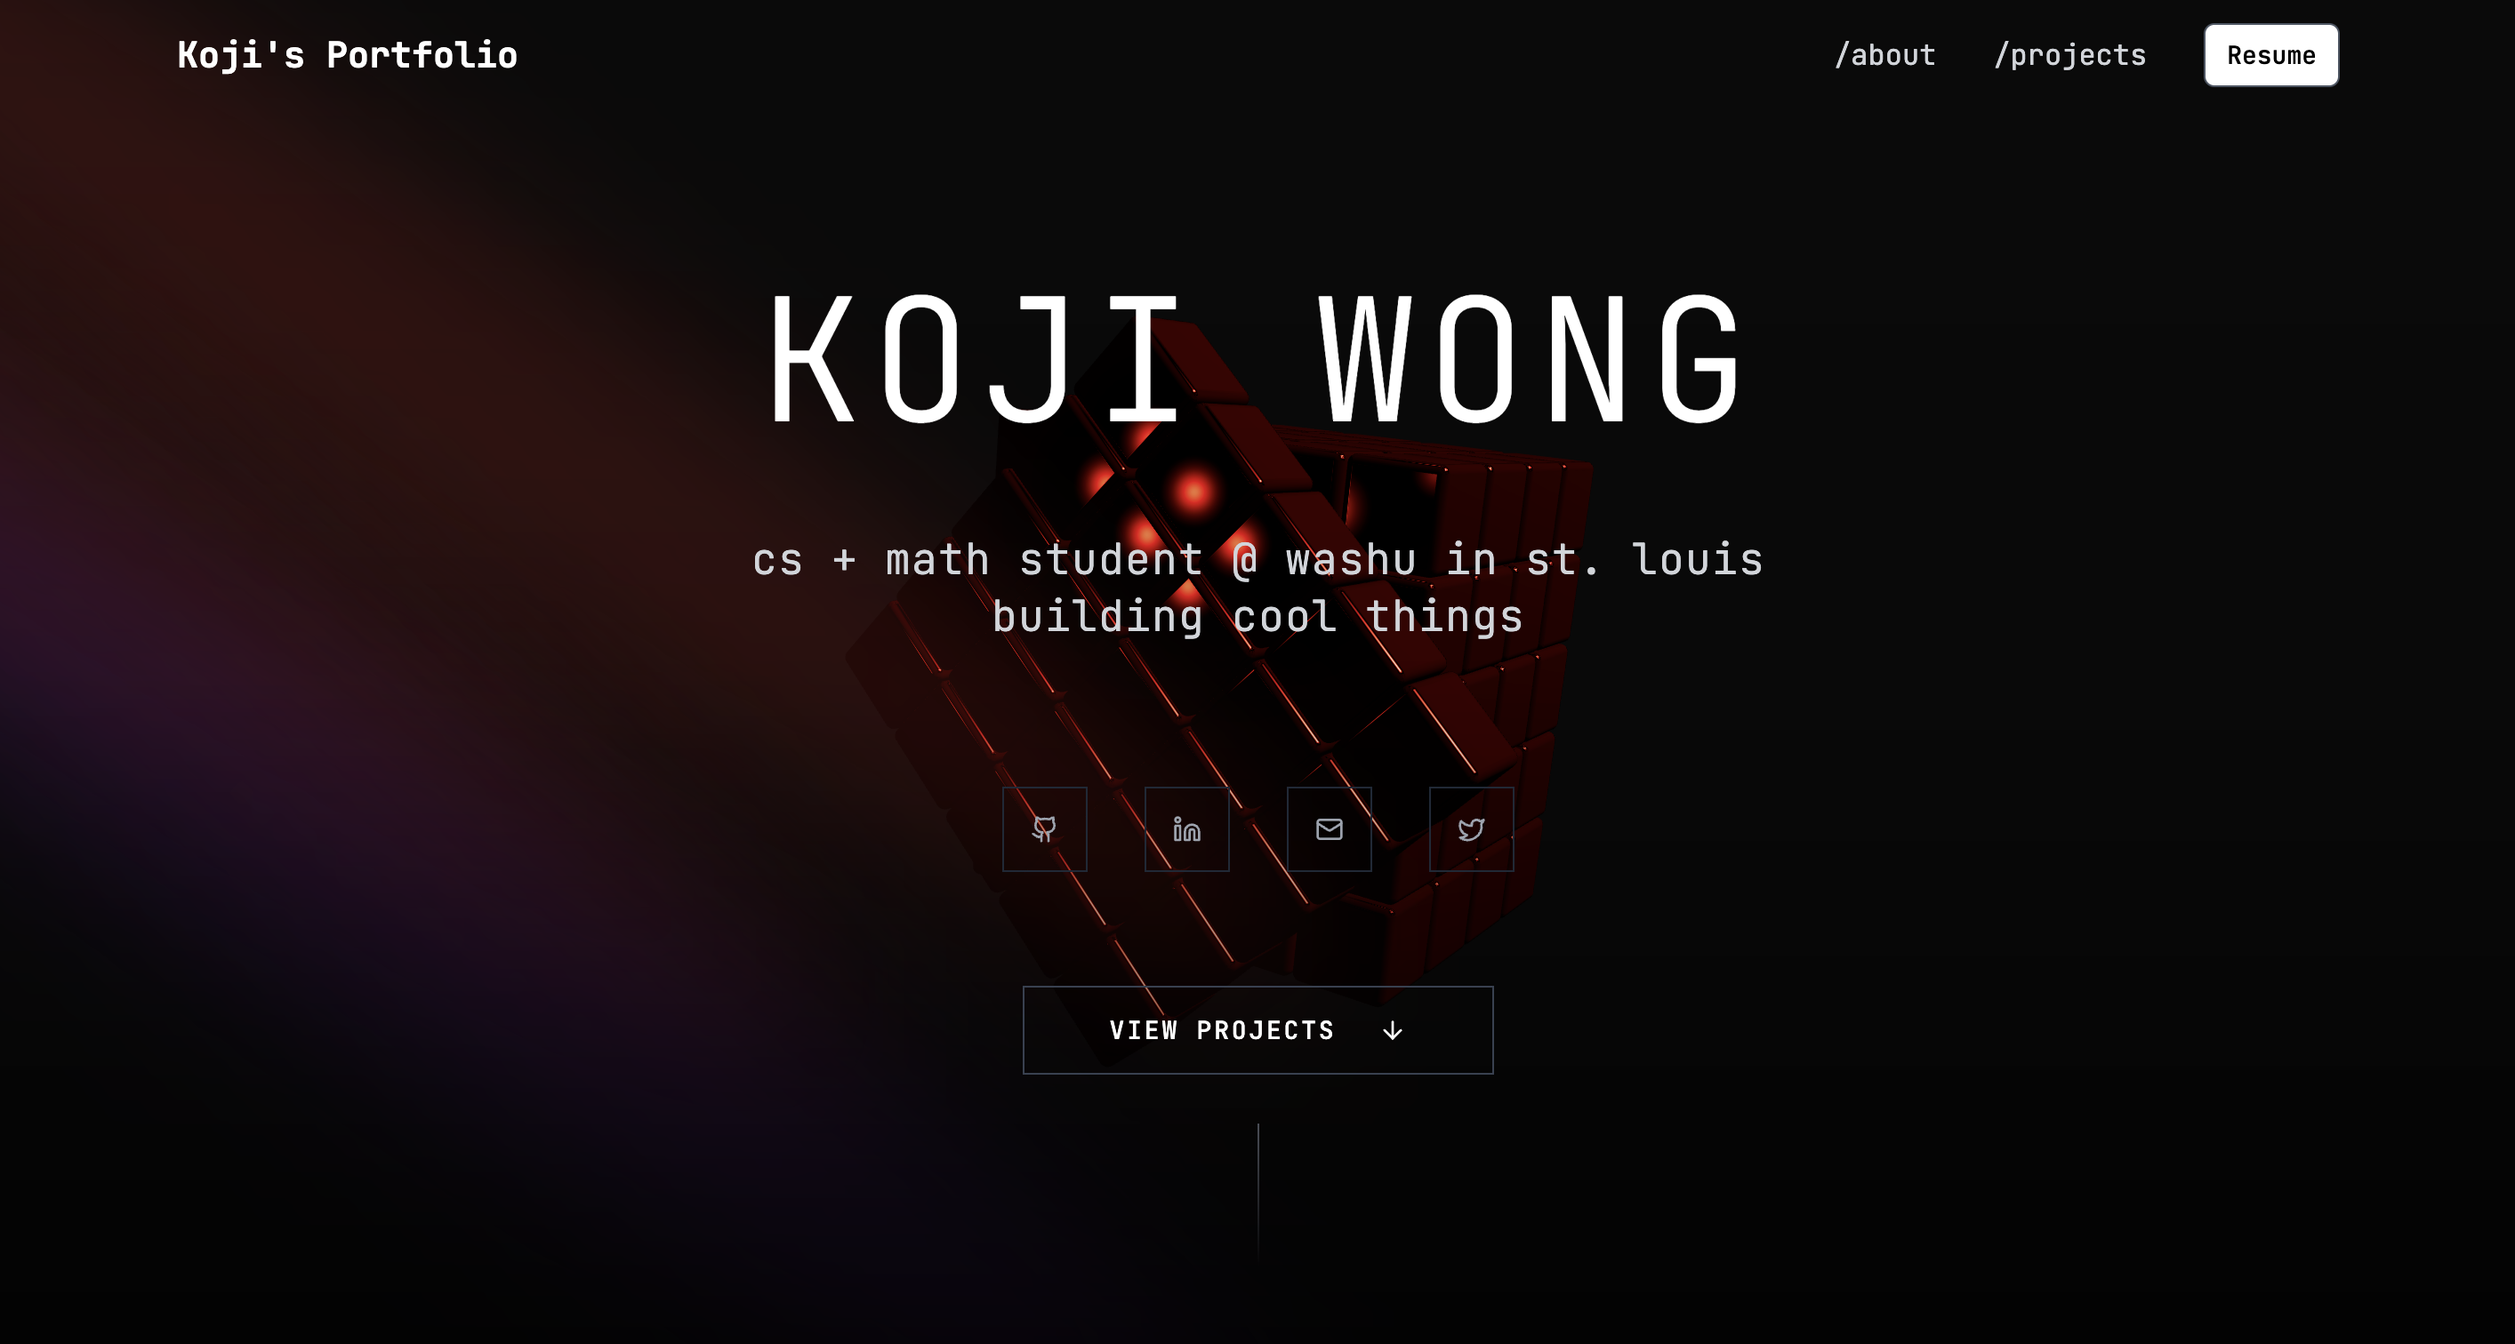
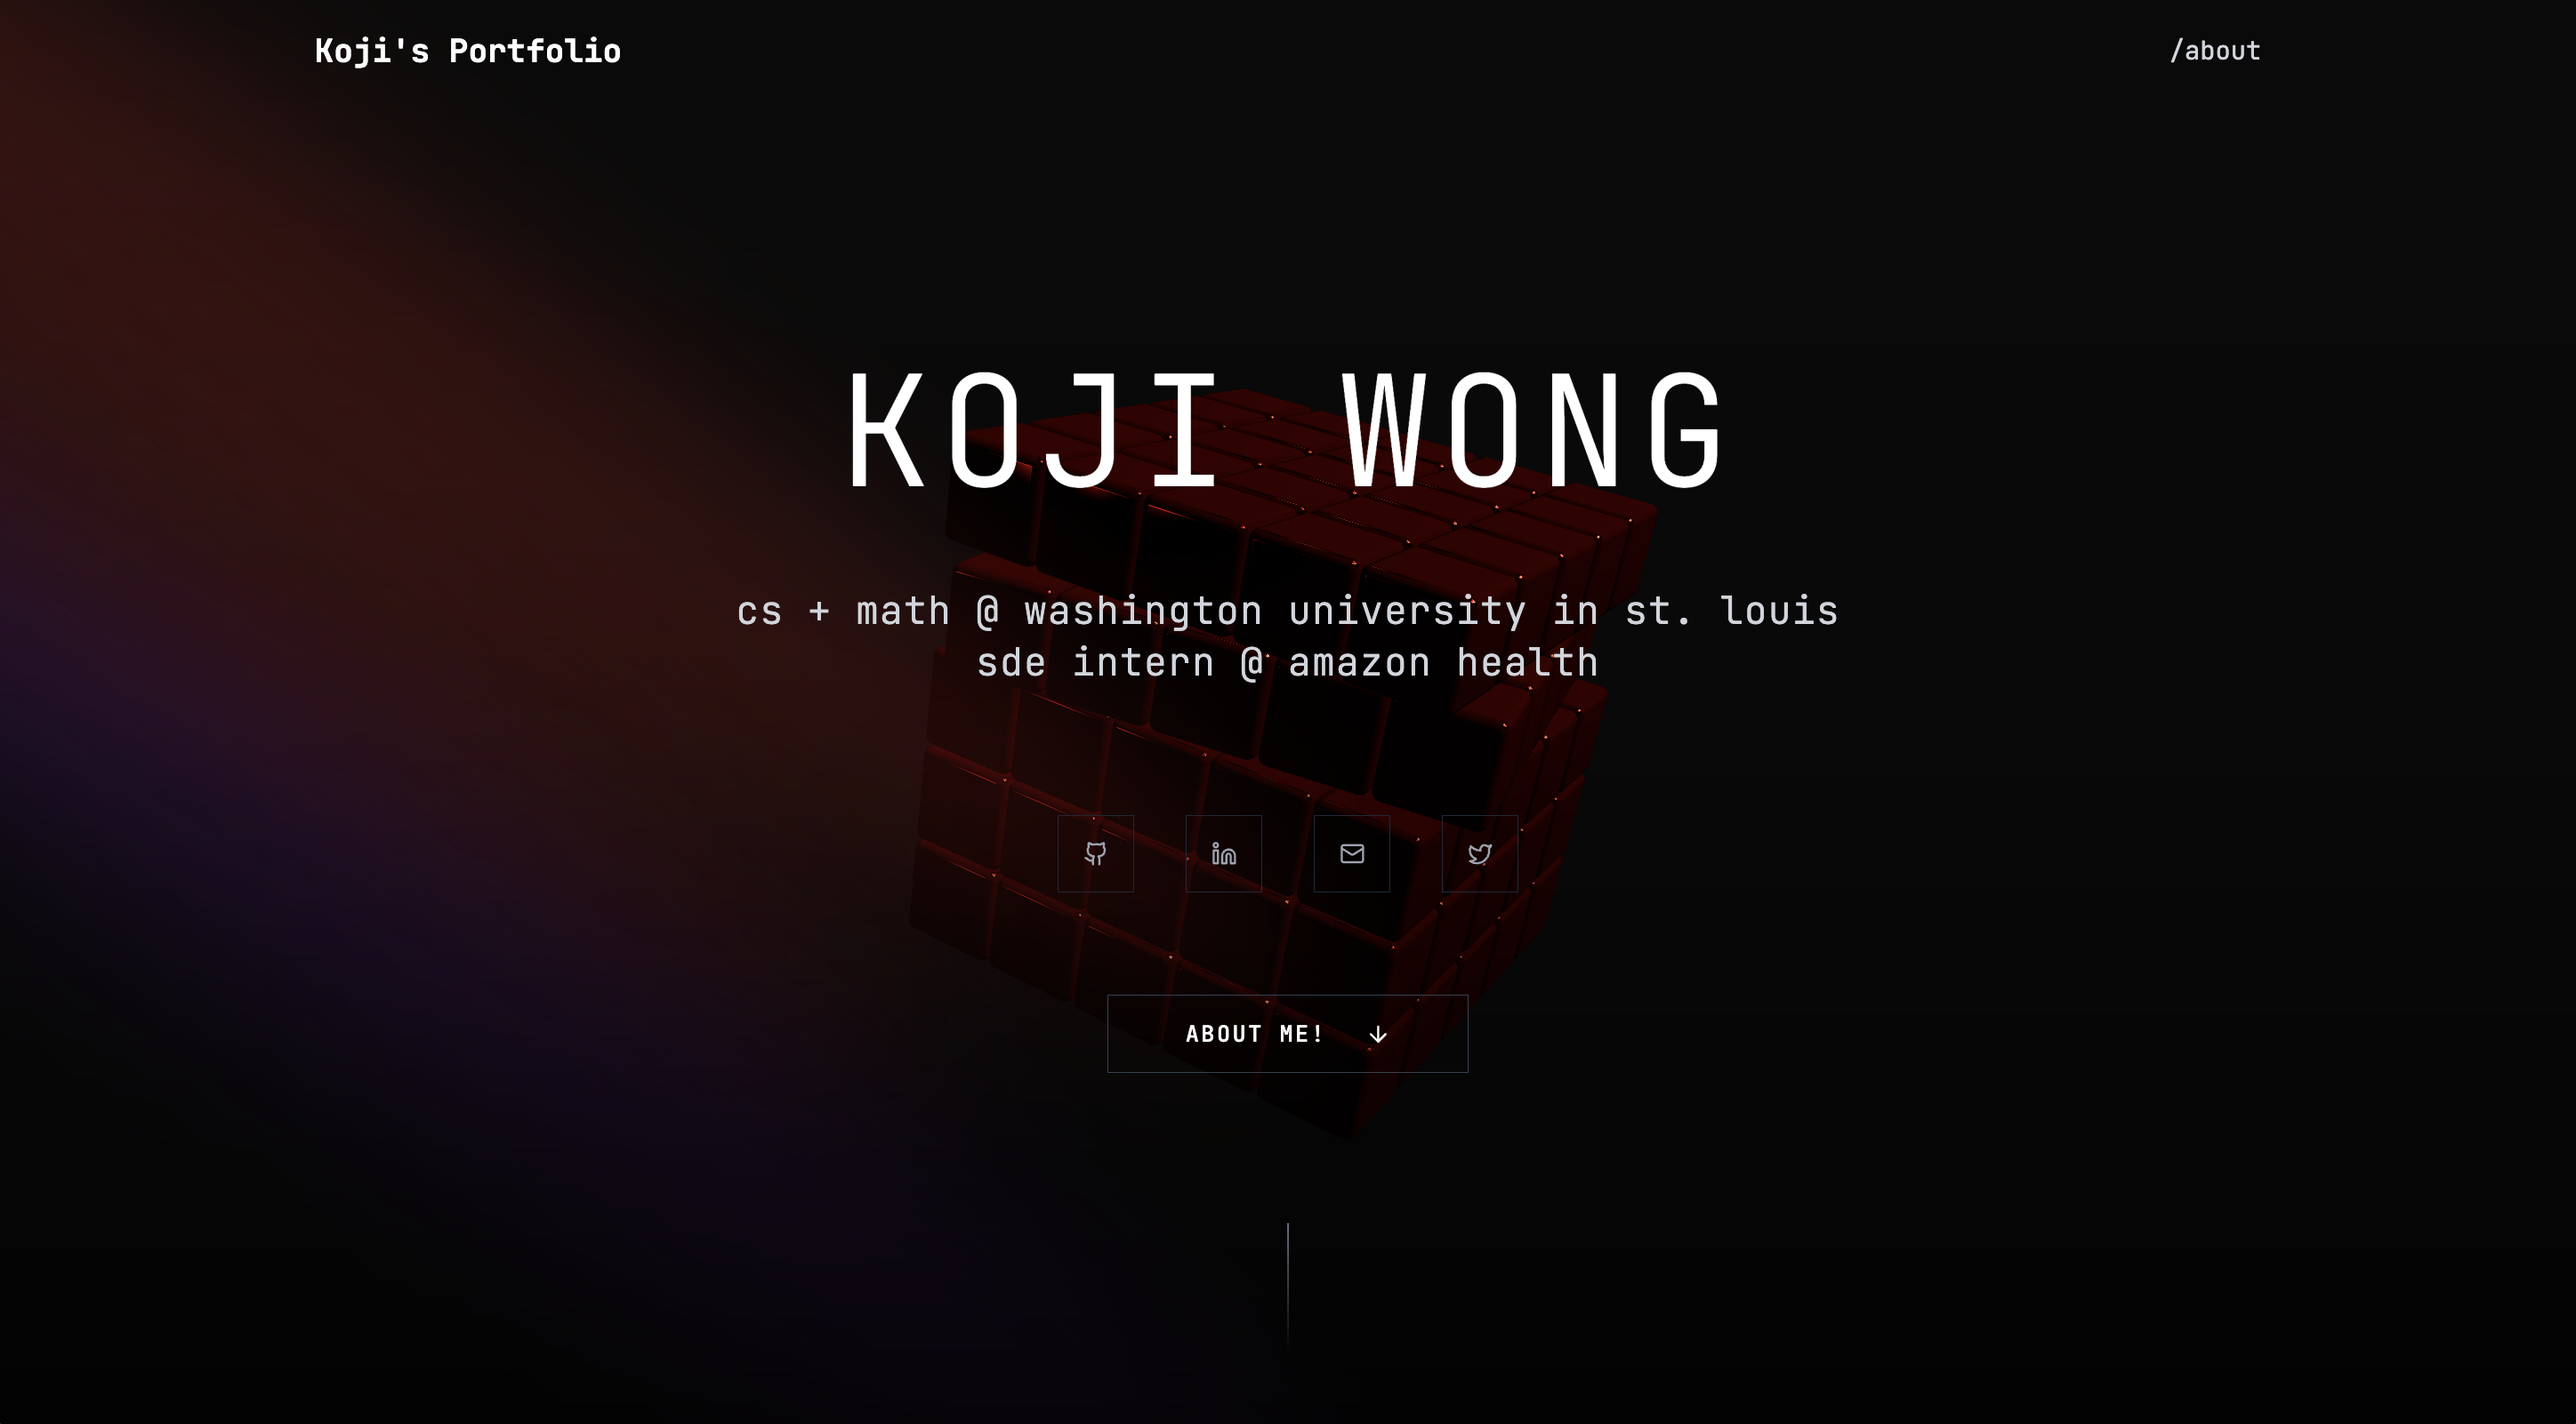
update thumbnail + bio

diff --git a/src/components/sections/About.tsx b/src/components/sections/About.tsx
@@ -39,22 +39,25 @@ const About = () => {
                   
                   <div className="space-y-6 text-gray-300 leading-relaxed font-typewriter text-sm tracking-wide">
                     <p>
-                      I'm a second-year at Washington University in St. Louis studying CS and Math. I'm broadly interested in govtech, green energy, trading, and startups.
+                      I'm a rising junior at Washington University in St. Louis studying CS + Math. Currently, I'm on a gap semester working on population health @ Amazon in SF. I'm broadly interested in startups & deeptech.
                     </p>
                     <p>
-                      This summer, I'll be a software engineer intern at Capital One. I'll also be in Chicago for IMC Launchpad in May, and be at YC Startup School in SF in July. Hmu if you're in the area! 
+                      
                     </p>
                     <div className="space-y-2">
                       <p>Previously, I've:</p>
                       <ul className="space-y-2 pl-4">
                         <li>
-                          - Built the first iteration of the <a href="https://codefour.us/products/redactions" target="_blank" rel="noopener noreferrer" className="text-gray-400 hover:text-gray-300 underline decoration-gray-500 hover:decoration-gray-400 transition-all">redactions product</a> at Code Four (YC X25)
+                          - Built the first iteration of the redactions product at Code Four (YC X25)
                         </li>
                         <li>
                           - Worked on the <a href="https://access.nyc.gov/" target="_blank" rel="noopener noreferrer" className="text-gray-400 hover:text-gray-300 underline decoration-gray-500 hover:decoration-gray-400 transition-all">Access NYC backend</a> at the NYC Mayor's Office for Economic Opportunity
                         </li>
                         <li>
                           - Built virtual environments for simulating autonomous vehicle and humanoid decision systems at WashU
+                        </li>
+                        <li>
+                          - Built backend systems at Capital One
                         </li>
                         <li>
                           - Spent a semester as a swe @ the world's smallest sport (biotech, iykyk)

diff --git a/src/components/sections/Hero.tsx b/src/components/sections/Hero.tsx
@@ -61,7 +61,7 @@ const Hero = () => {
           <p className="text-lg sm:text-xl lg:text-2xl text-gray-300 font-light tracking-wide max-w-3xl mx-auto leading-relaxed font-typewriter">
             cs + math @ washington university in st. louis
             <br />
-            incoming swe @ capital one
+            sde intern @ amazon health
           </p>
         </div>
          
